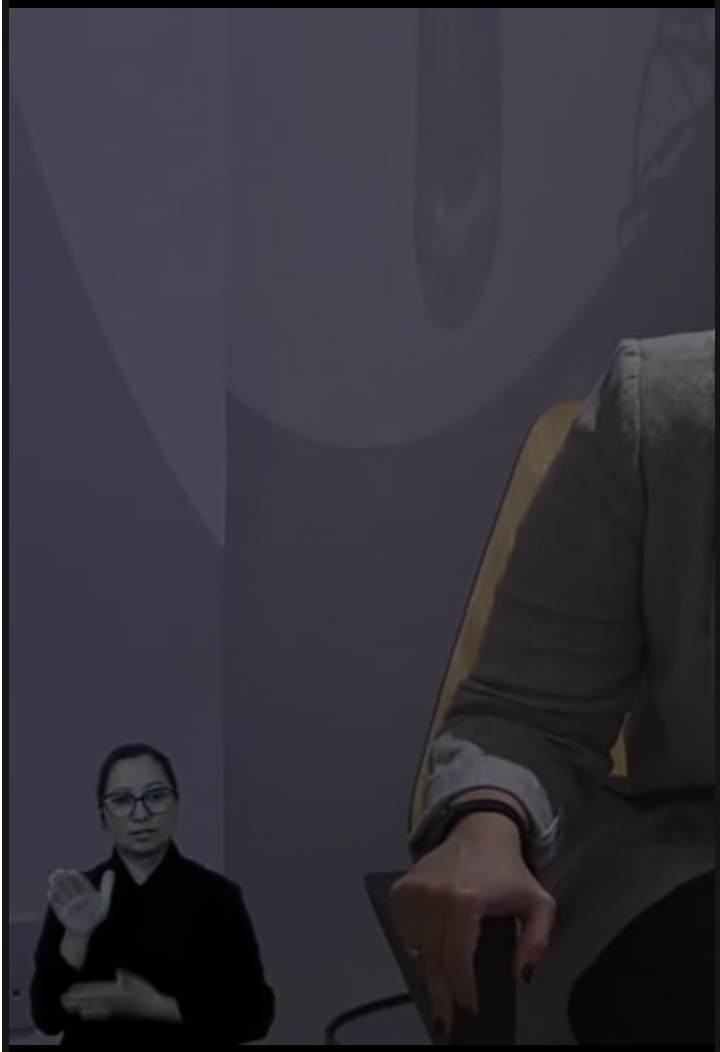
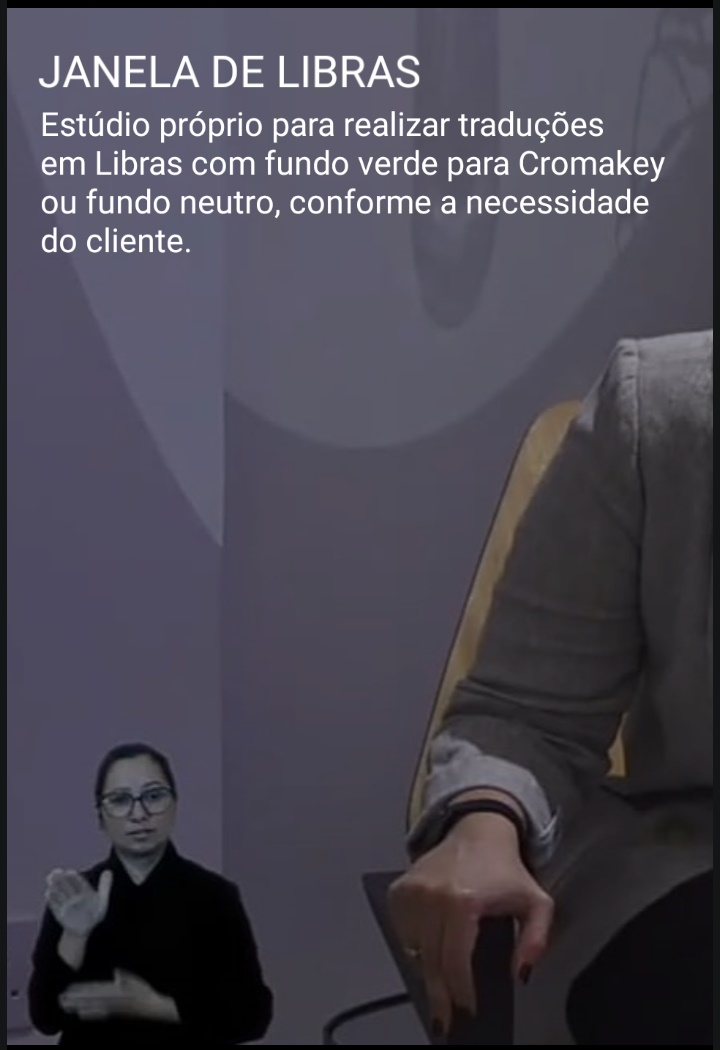
Adicionados botões no final da página, formatados e adicionados textos nos boxes

diff --git a/index.html b/index.html
@@ -29,11 +29,9 @@
                 <h3 class="titulo">Tradução em Libras/Português</h3>
             </div>
             <div class="container">
-                <h4 class="descricao">Movidos pelo desejo de promover acessibilidade 
-                    dentro das empresas de todos os segmentos nasce a GKR Comunicação 
-                    Acessível. Auxiliamos na inclusão e diversidade comunicacional de empresas que 
-                    buscam inserir a Libras no seu dia a dia, seja na tradução de vídeos, materiais 
-                    de apoio, cursos e formações.</h4>
+                <h3 class="descricao">Auxiliamos na inclusão e diversidade comunicacional de empresas que 
+                    buscam inserir a Libras no seu dia a dia, seja na tradução de vídeos, lives, materiais 
+                    de apoio, cursos e formações.</h3>
             </div>
             <div class="botao">
                 <button role="button" class="botao1">
@@ -68,9 +66,31 @@
         </div>
     </div>
     <div class="container">
-        <div class="redes">
-            <h2 class="servicos">SIGANOS:</h2>
+        <div class="siga">
+            <h2 class="siganos">SIGANOS:</h2>
         </div>
+    </div>
+    <div class="container">
+        <div class="redes">
+            <button role="button" class="botao2">
+                <i class="fa-solid fa-video fa-2xl"></i>
+                YOUTUBE
+            </button>
+            <button role="button" class="botao2">
+                <i class="fa-sharp fa-solid fa-users fa-2xl"></i>
+                INSTAGRAM
+            </button>
+            <button role="button" class="botao2">
+                <i class="fa-solid fa-square-poll-horizontal fa-2xl"></i>
+                LINKEDIN
+            </button>
+        </div>
+    </div>
+
+    <div class="container1">
+        <div class="creditos">
+            <h6>By GKR. and EightySevenTec - Todos direitos reservados</h6>
+        </div>        
     </div>
 
     <script src="https://kit.fontawesome.com/e74ad9cda8.js" crossorigin="anonymous"></script>

diff --git a/style/main.css b/style/main.css
@@ -41,14 +41,20 @@ header .logoGKR{
     border-radius: 15px;
 }
 
+.capa .container{
+    width: 60%;
+}
+
 .capa .titulo{    
     margin-top: 20%;
+    margin-left: 5%;
     font-size: 35px;
     font-family: 'Calibri', 'Trebuchet MS', sans-serif, Times, serif;
 }
 
 .capa .descricao{
     margin-top: 2%;
+    margin-left: 5%;
 }
 
 .botao1{
@@ -66,7 +72,7 @@ header .logoGKR{
 }
 
 .botao1:hover{
-    background-color: rgb(255, 255, 255, .50);
+    background-color: rgba(255, 60, 0, 0.918);
     color: black;
 }
 
@@ -74,12 +80,8 @@ header .logoGKR{
     margin-right: 10px;
 }
 
-.container{
+.container .servicos{
     margin-left: 30px;
-}
-
-.capa .container{
-    width: 50%;
 }
 
 .container .servicos{
@@ -102,4 +104,41 @@ header .logoGKR{
 .item{
     font-family: 'Calibri', 'Trebuchet MS', sans-serif, Times, serif;
     color: #e0dfdf;
+}
+
+.container .siga{
+    margin-left: 30px;
+}
+
+.container .siganos{
+    color: #777575;
+    margin-top: 10px;
+}
+
+.container .botao2{
+    background-color: rgba(0,0,0,.80);
+    border: none;
+    border-radius: 10px;
+    color: white;
+    padding: 15px 30px;
+    margin-top: 10px;
+    margin-left: 5px;
+    font-size: 12px;
+    cursor: pointer;
+    transition: .3s ease all;
+}
+
+.botao2:hover{
+    background-color: rgba(255, 60, 0, 0.918);
+    color: rgb(0, 0, 0);
+}
+
+.botao2 i{
+    margin-right: 10px;
+}
+
+.creditos{
+    margin-top: 15px;
+    color:#333333;
+    text-align: center;
 }
